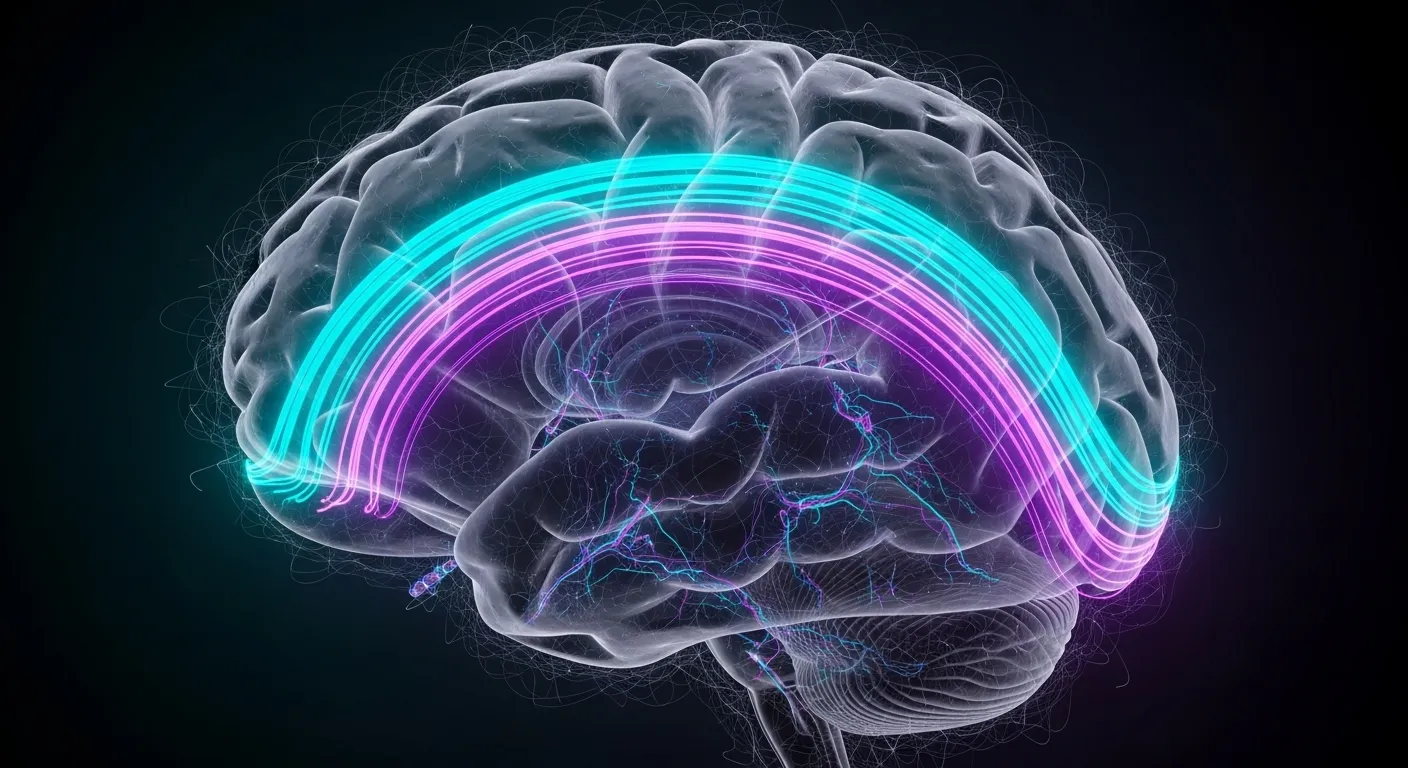
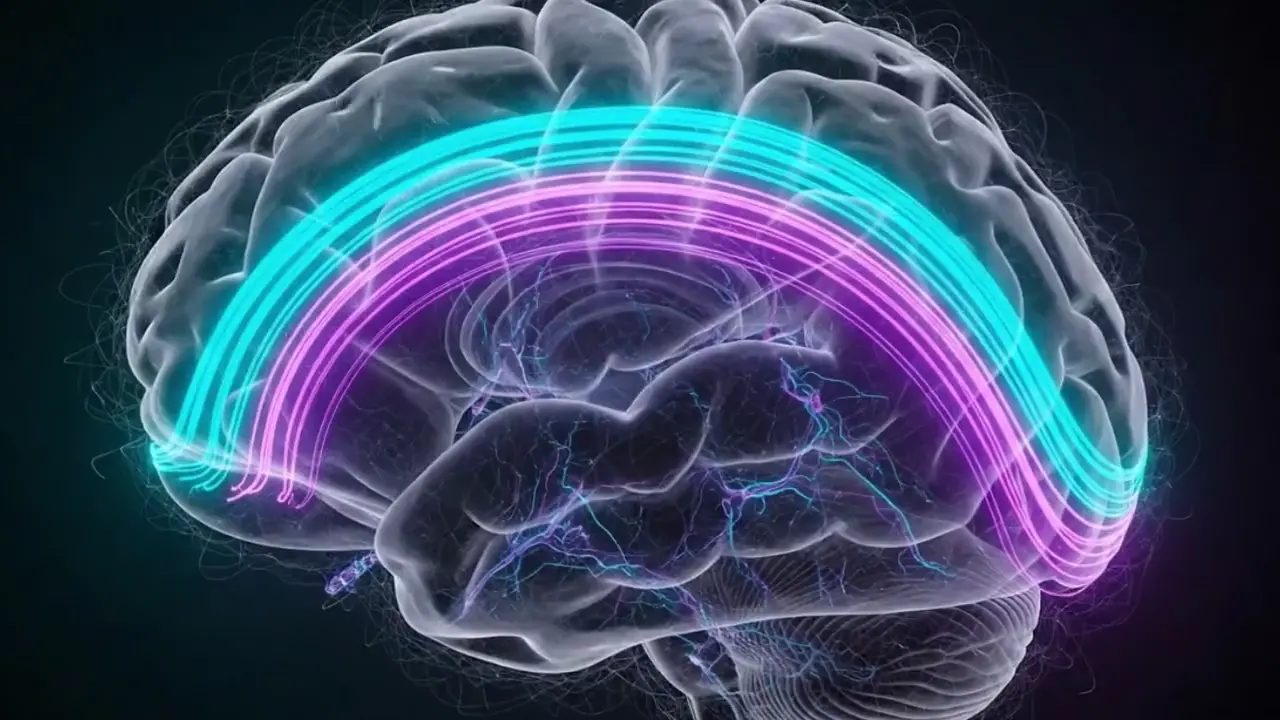
fix(ux): smooth scroll CTA, calage sous la nav, stabilite video home et conformite llms.txt

diff --git a/src/layouts/MainLayout.tsx b/src/layouts/MainLayout.tsx
@@ -3,6 +3,12 @@ import { useEffect, useState } from 'react';
 import { Phone, ExternalLink } from 'lucide-react';
 import Lenis from 'lenis';
 
+declare global {
+  interface Window {
+    __lenis?: Lenis;
+  }
+}
+
 export function MainLayout() {
   const [showScrollTop, setShowScrollTop] = useState(false);
   const [isMobileMenuOpen, setIsMobileMenuOpen] = useState(false);
@@ -29,6 +35,7 @@ export function MainLayout() {
       touchMultiplier: 2,
     });
     setLenis(l);
+    window.__lenis = l;
 
     function raf(time: number) {
       l.raf(time);
@@ -37,6 +44,7 @@ export function MainLayout() {
     requestAnimationFrame(raf);
 
     return () => {
+      window.__lenis = undefined;
       l.destroy();
     };
   }, []);
@@ -68,21 +76,59 @@ export function MainLayout() {
     return () => window.removeEventListener('resize', handleResize);
   }, []);
 
+  const scrollToTarget = (hash: string) => {
+    const element = document.querySelector(hash) as HTMLElement;
+    if (!element) return;
+
+    if (lenis) {
+      // Offset calibré pour caler le bloc haut sous la nav (+30px compense le padding de section)
+      lenis.scrollTo(element, { offset: 30, duration: 1.2 });
+    } else {
+      element.scrollIntoView({ behavior: 'smooth' });
+    }
+  };
+
   const handleNavClick = (e: React.MouseEvent<HTMLAnchorElement>, hash: string) => {
     if (window.location.pathname === '/') {
       e.preventDefault();
       setIsMobileMenuOpen(false);
-      const element = document.querySelector(hash) as HTMLElement;
-      if (lenis && element) {
-        lenis.scrollTo(element, { offset: -120 });
-      } else if (element) {
-        element.scrollIntoView({ behavior: 'smooth' });
-      }
+      scrollToTarget(hash);
       window.history.pushState(null, '', hash);
     } else {
       setIsMobileMenuOpen(false);
     }
   };
+
+  // Interception universelle des clics sur n'importe quel CTA / lien d'ancre de la page (ex: boutons Hero, Offres, Parallax, etc.)
+  useEffect(() => {
+    const handleGlobalClick = (e: MouseEvent) => {
+      const anchor = (e.target as HTMLElement).closest('a');
+      if (!anchor) return;
+
+      const href = anchor.getAttribute('href');
+      if (!href) return;
+
+      let hash = '';
+      if (href.startsWith('#') && href.length > 1) {
+        hash = href;
+      } else if (href.startsWith('/#') && window.location.pathname === '/') {
+        hash = href.slice(1);
+      }
+
+      if (hash && hash !== '#') {
+        const targetElement = document.querySelector(hash) as HTMLElement;
+        if (targetElement) {
+          e.preventDefault();
+          setIsMobileMenuOpen(false);
+          scrollToTarget(hash);
+          window.history.pushState(null, '', hash);
+        }
+      }
+    };
+
+    document.addEventListener('click', handleGlobalClick);
+    return () => document.removeEventListener('click', handleGlobalClick);
+  }, [lenis]);
 
   return (
     <>

diff --git a/src/components/sections/Contact.tsx b/src/components/sections/Contact.tsx
@@ -86,7 +86,7 @@ export function Contact() {
   const inputClasses = "w-full bg-white/5 border border-white/15 rounded-2xl px-5 py-4 text-white text-base transition-all focus:bg-white/10 focus:border-accent-secondary focus:outline-none focus:shadow-[0_0_15px_rgba(6,182,212,0.15)]";
 
   return (
-    <section id="contact" className="py-[clamp(4rem,10vw,8rem)] px-4">
+    <section id="contact" className="pt-16 pb-24 md:pt-20 md:pb-32 px-4 scroll-mt-20">
       <div className="max-w-[700px] mx-auto">
         <div className="bg-white/5 backdrop-blur-[24px] border border-accent-primary/15 rounded-3xl p-6 md:p-12 overflow-hidden">
           <h2 className="text-[clamp(1.8rem,6vw,3rem)] mb-4 text-center bg-gradient-to-br from-white to-accent-primary bg-clip-text text-transparent font-title font-semibold">

diff --git a/src/components/sections/Hero.tsx b/src/components/sections/Hero.tsx
@@ -36,8 +36,20 @@ export function Hero() {
       </div>
       
       <div className="absolute inset-0 z-0 opacity-50 pointer-events-none">
-        <video id="hero-video" autoPlay loop muted playsInline poster="/images/hero-fallback.webp" className="w-full h-full object-cover">
+        <video 
+          id="hero-video" 
+          autoPlay 
+          loop 
+          muted 
+          playsInline 
+          preload="auto"
+          poster="/images/hero-fallback.webp" 
+          width="1280" 
+          height="720"
+          className="w-full h-full object-cover"
+        >
           <source src="/videos/video.webm" type="video/webm" />
+          <source src="/videos/video.mp4" type="video/mp4" />
         </video>
       </div>
     </section>

diff --git a/src/App.tsx b/src/App.tsx
@@ -127,14 +127,18 @@ function Home() {
     if (window.location.hash) {
       const hash = window.location.hash;
       const attemptScroll = () => {
-        const element = document.querySelector(hash);
+        const element = document.querySelector(hash) as HTMLElement;
         if (element) {
-          element.scrollIntoView({ behavior: 'smooth' });
+          if (window.__lenis) {
+            window.__lenis.scrollTo(element, { offset: 30, duration: 1.2 });
+          } else {
+            element.scrollIntoView({ behavior: 'smooth' });
+          }
         } else {
           setTimeout(attemptScroll, 100);
         }
       };
-      setTimeout(attemptScroll, 100);
+      setTimeout(attemptScroll, 150);
     }
   }, []);
 

diff --git a/src/components/sections/PractitionerVideo.tsx b/src/components/sections/PractitionerVideo.tsx
@@ -116,6 +116,9 @@ export function PractitionerVideo() {
                 playsInline 
                 muted
                 preload="metadata"
+                width="720"
+                height="1280"
+                poster="/images/practitioner-video-poster.webp"
               >
                 <source src="/videos/output.webm" type="video/webm" />
                 <source src="/videos/output.mp4" type="video/mp4" />

diff --git a/TODO.md b/TODO.md
@@ -60,3 +60,14 @@
 - [x] Compiler en mode production (`npm run build`) avec succès (0 erreurs).
 - [x] Linter oxlint vérifié (0 erreurs).
 - [x] Inspection des fichiers statiques générés dans `dist/` (titres, metas, schemas et corps de texte vérifiés).
+
+## Phase 8 : UX Scroll, Calage Sous la Nav, Vidéos & llms.txt
+- [x] Calibrer le scroll des liens et CTA (`offset: 30` avec Lenis) pour que le contenu se cale immédiatement sous la nav (environ 25px sous la barre flottante, masquant le bandeau supérieur).
+- [x] Rétablir l'animation de smooth scroll pour tous les boutons CTA de la page d'accueil (`Hero`, `Services`, `ParallaxBreak`, etc.) via interception globale.
+- [x] Ajuster le padding de la section contact (`pt-16 md:pt-20` et `scroll-mt-20`) pour une mise en valeur directe du formulaire.
+- [x] Éliminer le saut/redimensionnement vidéo au chargement de la home :
+  - Extraction d'une image poster exacte pixel-par-pixel (`hero-fallback.webp` en 1280x720 16:9).
+  - Ajout des attributs `width="1280"` et `height="720"` et `preload="auto"` sur la vidéo hero.
+  - Ajout d'un poster dédié et dimensions sur `PractitionerVideo`.
+- [x] Mettre en conformité `public/llms.txt` avec les recommandations llmstxt.org / Lighthouse (H1, bloc de citation, liens Markdown obligatoires).
+
